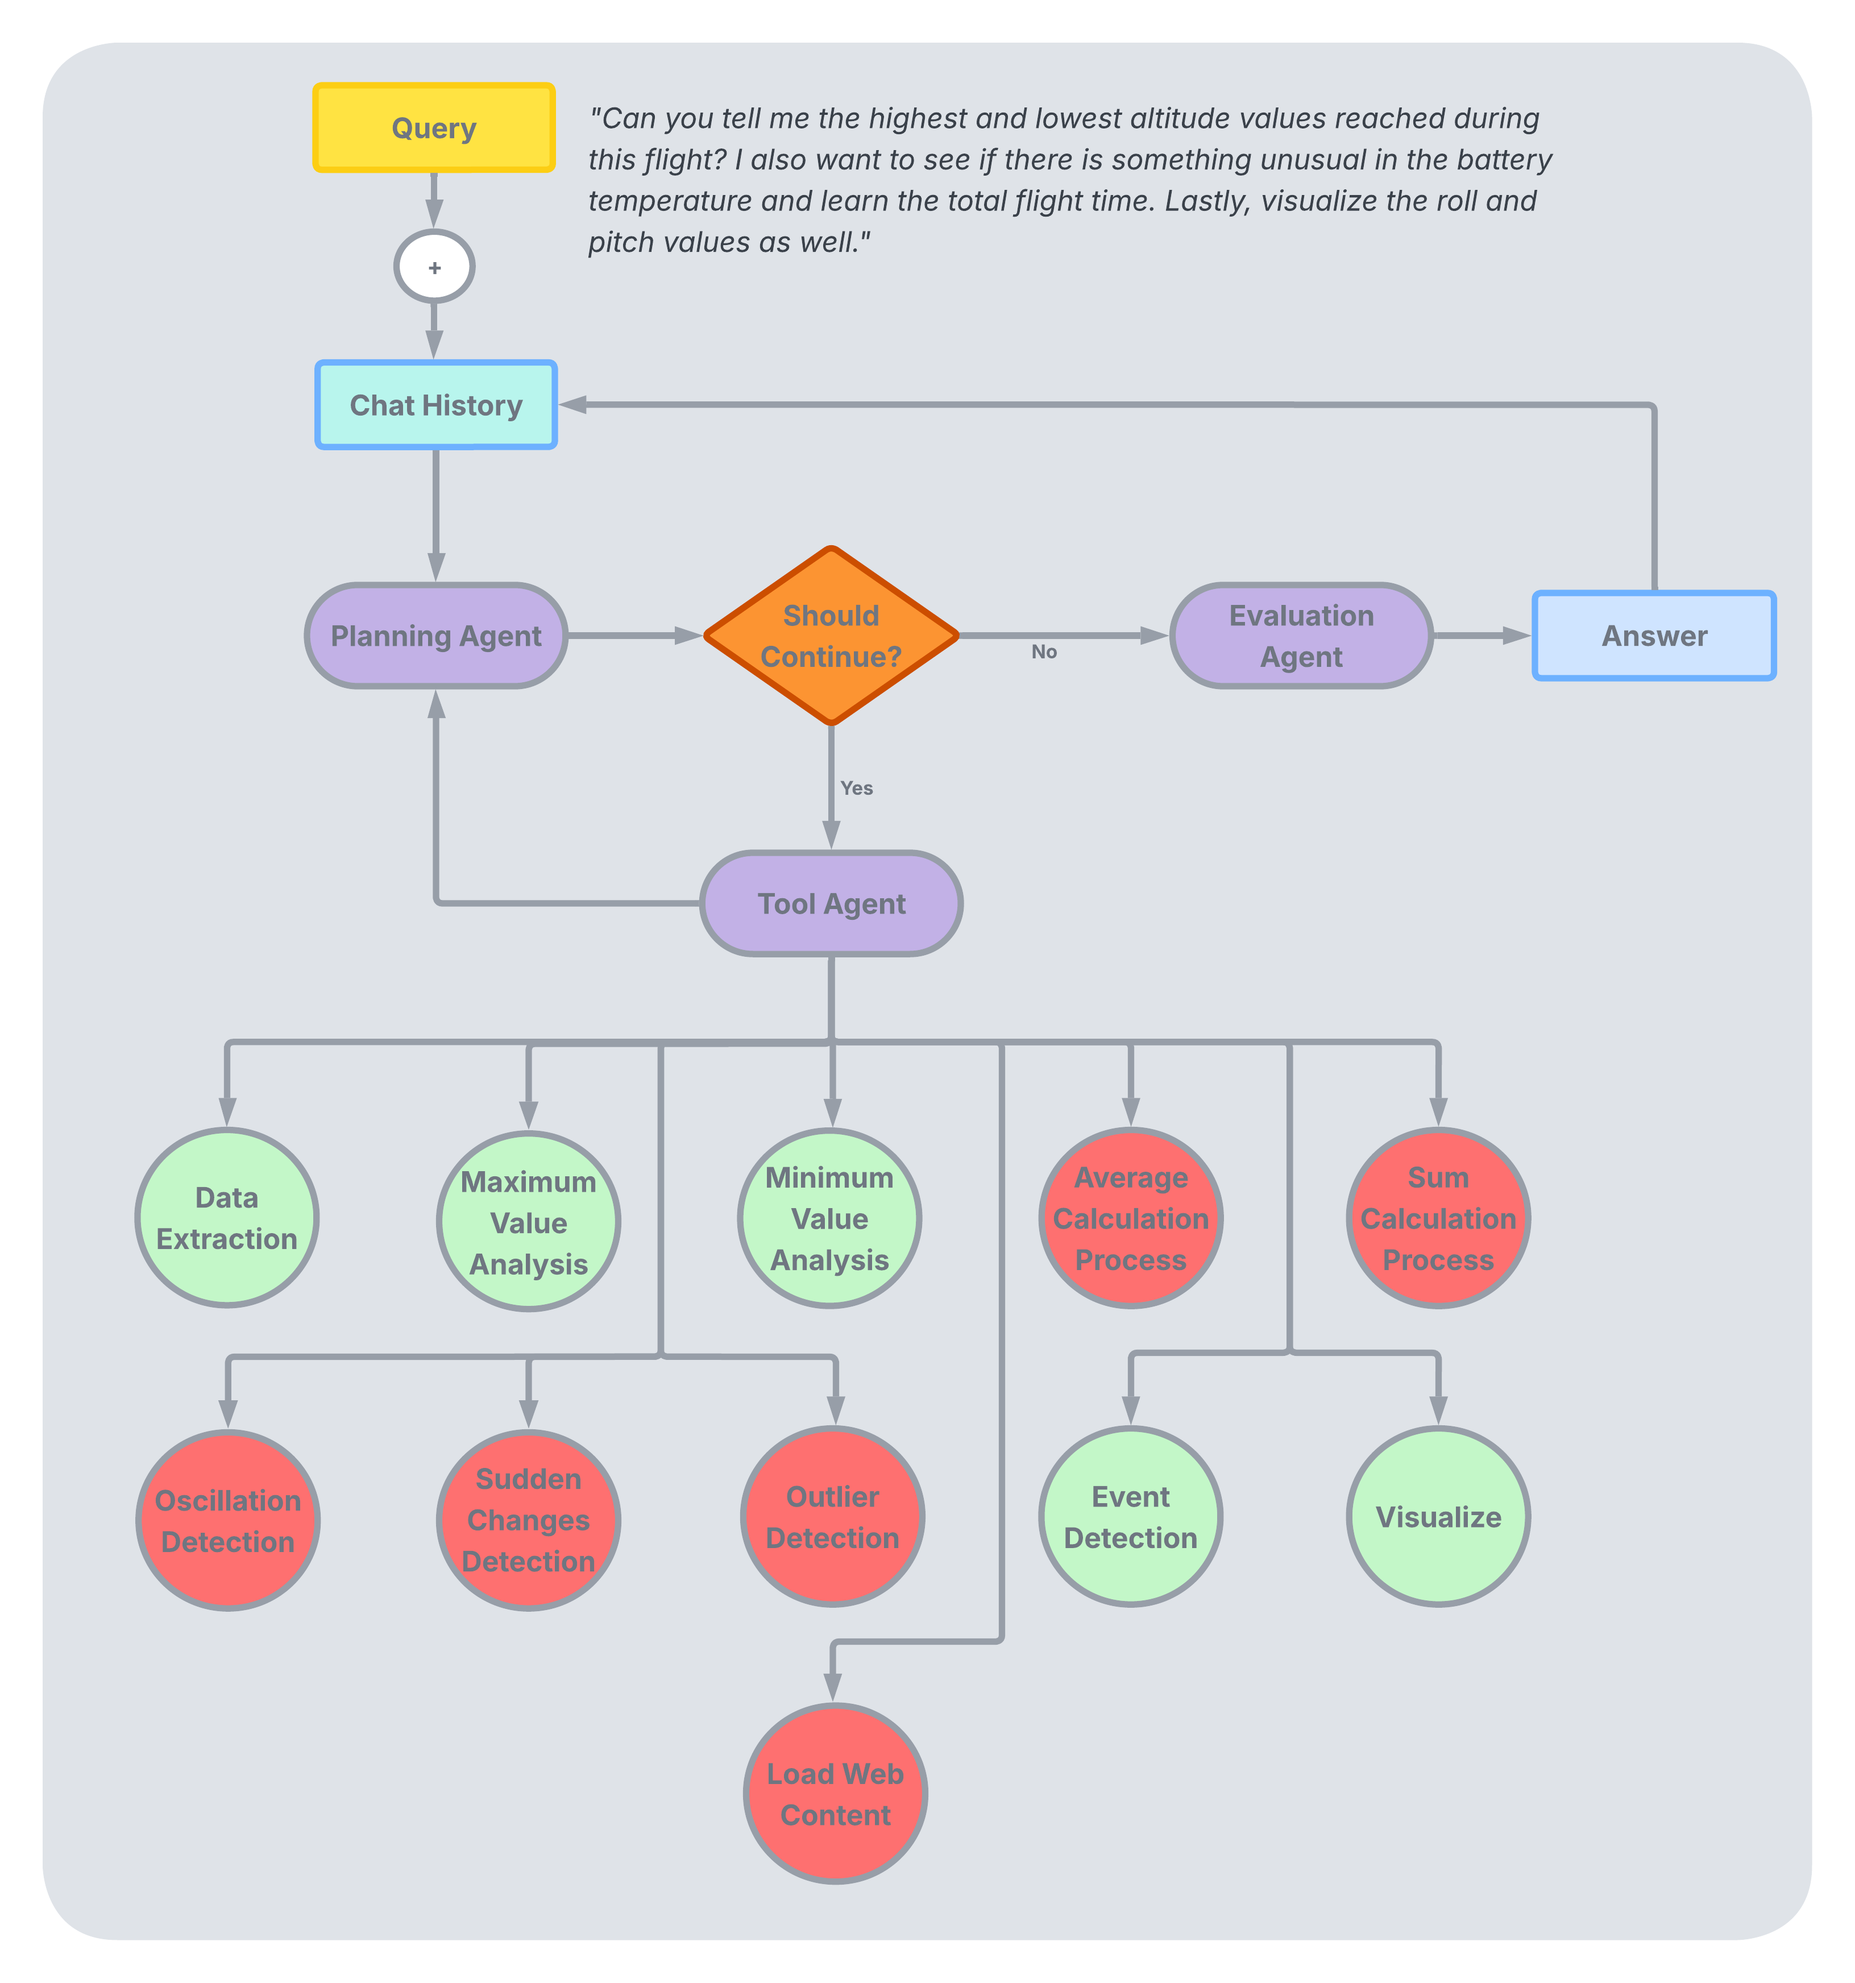
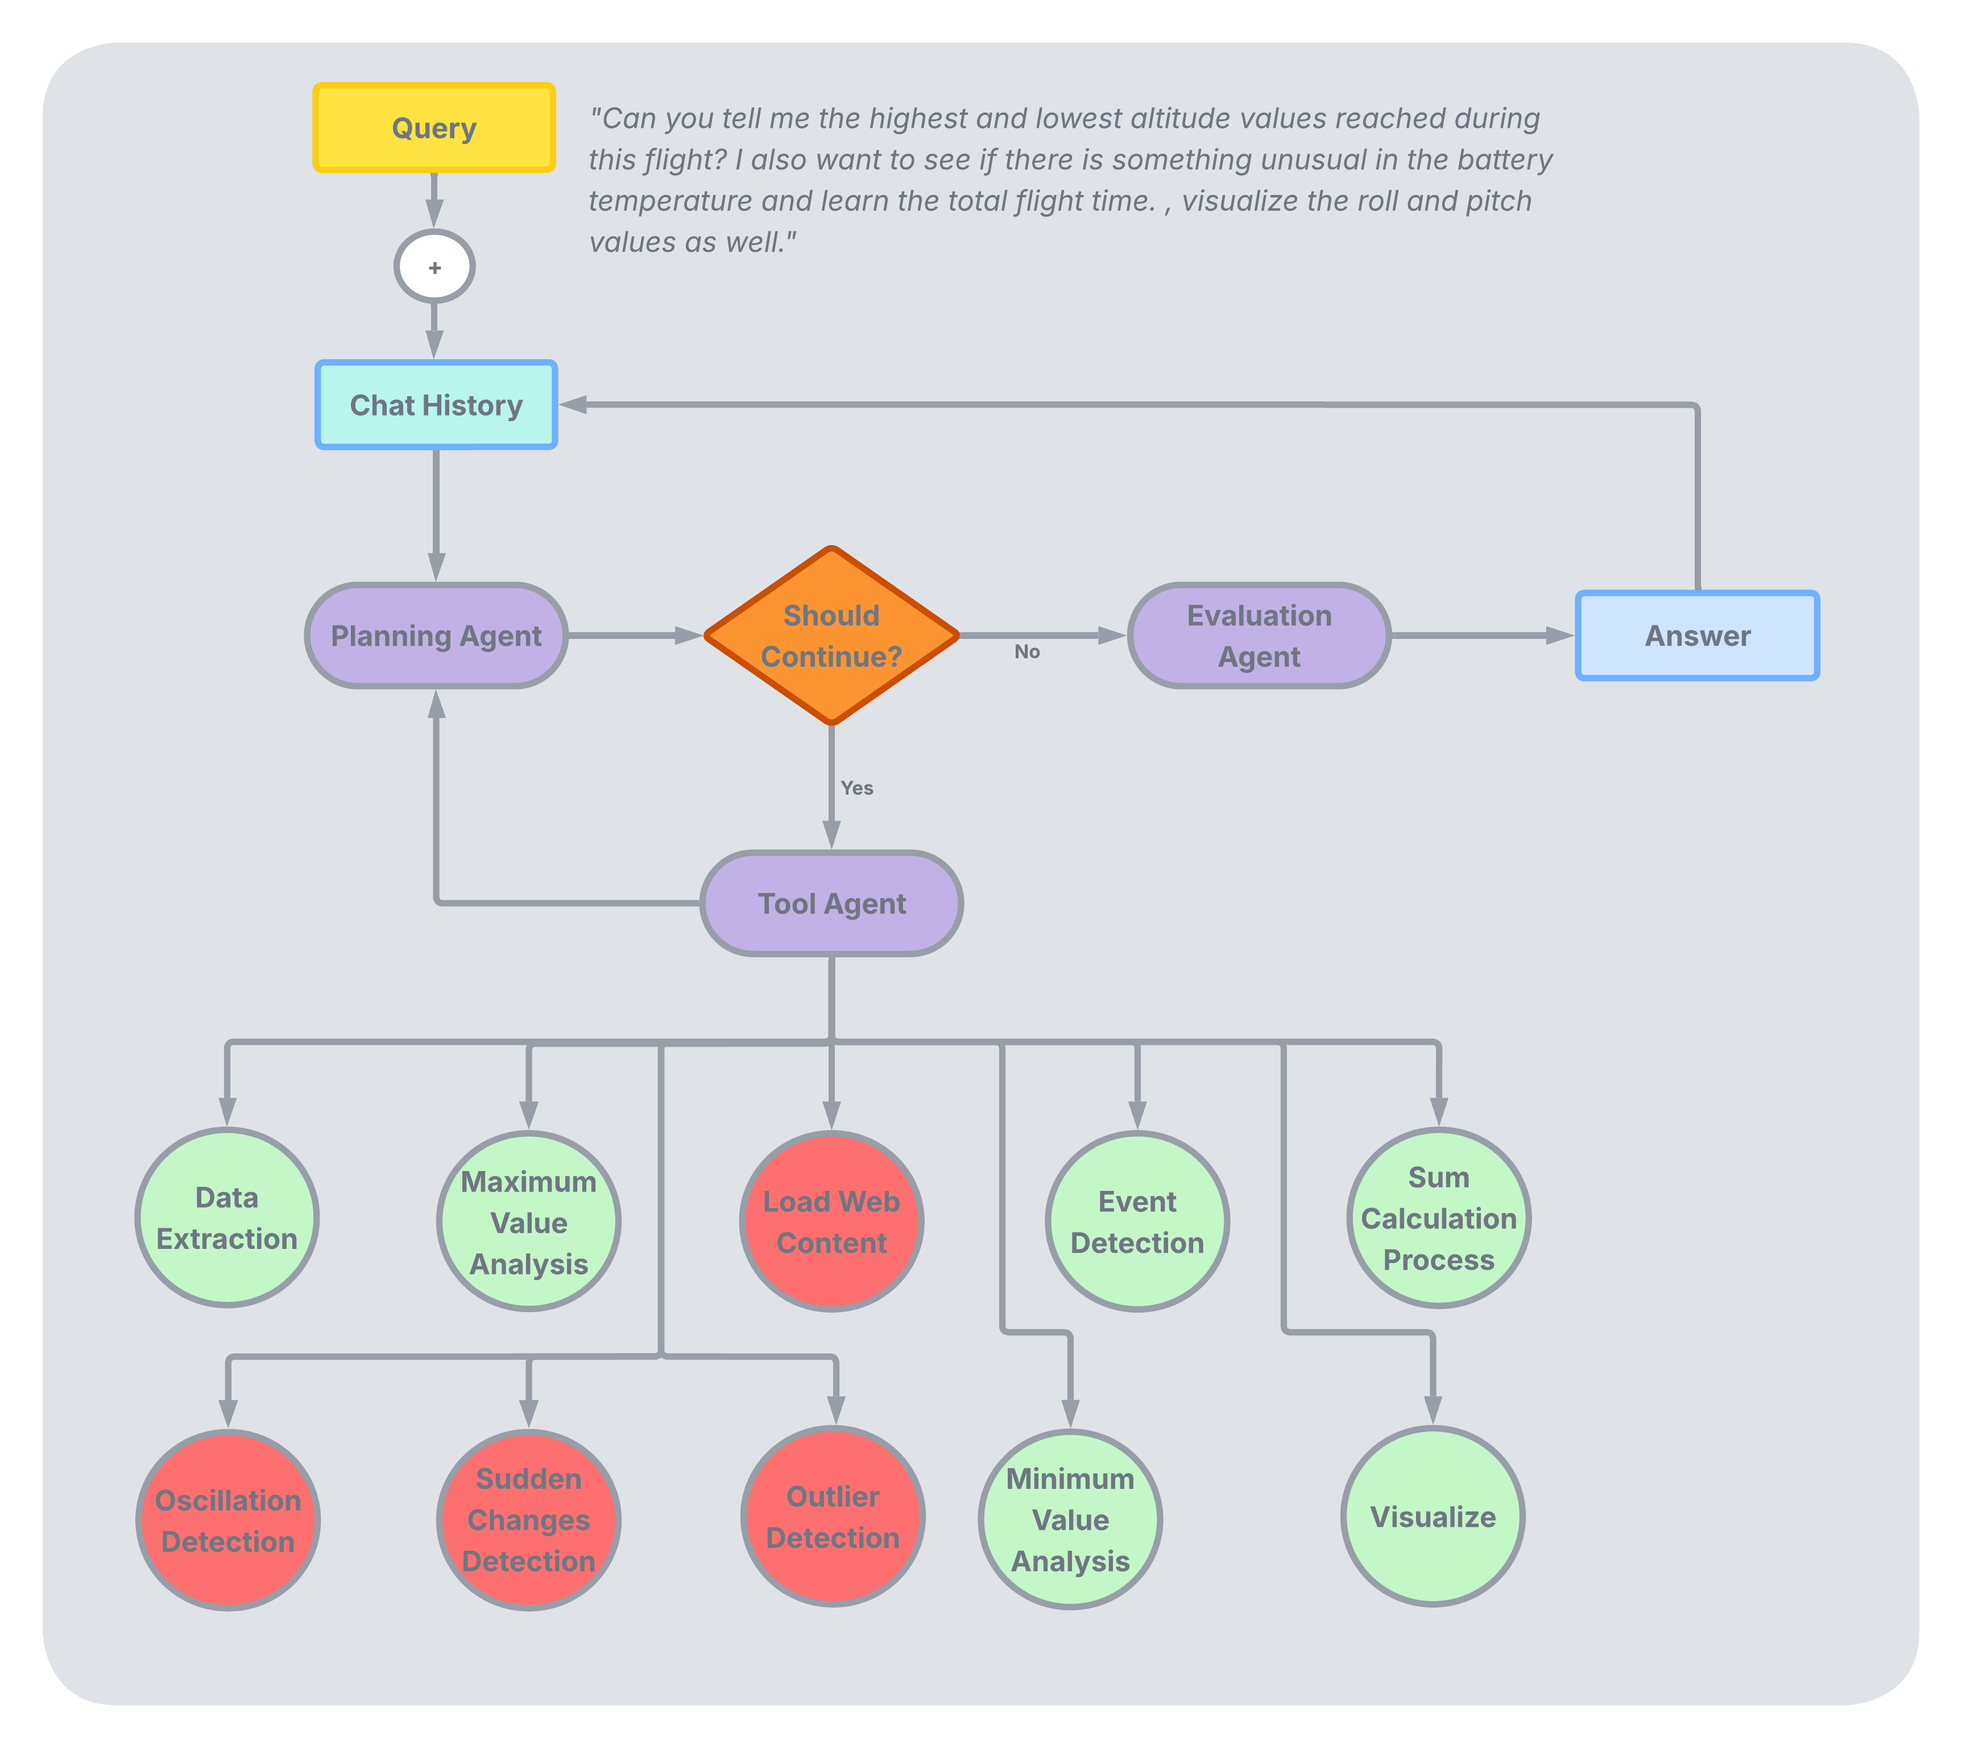
fix: file upload API and the flow charts are updated

Changed region(s): [[0.0619, 0.0312, 0.9595, 0.9678]]

diff --git a/src/components/SideBarFileManager.vue b/src/components/SideBarFileManager.vue
@@ -28,7 +28,6 @@
 import VProgress from './SideBarFileManagerProgressBar.vue'
 import Worker from '../tools/parsers/parser.worker.js'
 import { store } from './Globals'
-import { v4 as uuidv4 } from 'uuid'
 
 import { MAVLink20Processor as MAVLink } from '../libs/mavlink'
 
@@ -95,21 +94,20 @@ export default {
         // Added
         async sendFileToChatbot (file) {
             try {
-                const fileId = uuidv4()
                 const userId = 'admin'
                 const formData = new FormData()
                 formData.append('file', file)
                 const API_BASE_URL = process.env.VUE_APP_API_BASE_URL || 'http://localhost:8001'
                 console.log('Using API Base URL:', API_BASE_URL)
-                const response = await fetch(`${API_BASE_URL}/api/files/${fileId}`, {
+                const response = await fetch(`${API_BASE_URL}/api/files`, {
                     method: 'POST',
                     headers: { 'user-id': userId },
                     body: formData
                 })
                 if (response.ok) {
-                    console.log('File sent to chatbot successfully for user:', userId)
                     const responseData = await response.json()
-                    console.log('Response data:', responseData)
+                    console.log('File uploaded successfully:', responseData)
+                    // responseData.file_id is the server-generated ID
                 } else {
                     console.error('Failed to send file to chatbot. Status:', response.status)
                     console.error('Response text:', await response.text())

diff --git a/src/components/Sidebar.vue b/src/components/Sidebar.vue
@@ -577,14 +577,22 @@ a.centered-section {
     }
 
     .brand {
-        text-align: center;
+        display: flex;
+        align-items: center;
+        justify-content: space-between;
         font-size: 22px;
-        padding-left: 0px;
         line-height: 50px;
         margin-bottom: 0;
+        padding: 0 12px;
         color: rgb(54, 72, 114) !important;
         background-color: rgba(248, 248, 248, 0.918);
-        display: block;
+    }
+
+    .brand > a[href="/"] {
+        flex: 1;
+        text-align: center;
+        text-decoration: none;
+        color: rgb(54, 72, 114) !important;
     }
 
     .brand a {
@@ -592,11 +600,14 @@ a.centered-section {
         color: rgb(54, 72, 114) !important;
     }
 
+    .github {
+        display: flex;
+        align-items: center;
+    }
+
     .github img {
-        float: left;
         max-height: 30px;
-        margin-left: 8px;
-        margin-top: 10px;
+        margin: 0;
     }
 
     a:hover {

diff --git a/api/main.py b/api/main.py
@@ -11,6 +11,7 @@ import json
 from collections import defaultdict
 import math
 import logging
+import uuid
 from typing import List, Dict, Any, Optional
 import os
 from datetime import datetime
@@ -311,9 +312,10 @@ async def get_current_user(request: Request):
             error="Failed to get current user"
         )
 
-@app.post("/api/files/{file_id}", response_model=FileReceiveResponse, status_code=201, description="Upload a drone flight log file")
+@app.post("/api/files", response_model=FileReceiveResponse, status_code=201, description="Upload a drone flight log file")
 @limiter.limit("10/hour")
-async def receive_file(request: Request, file_id: str, file: UploadFile = File(...), user_id: str = Header(alias="user-id")):
+async def receive_file(request: Request, file: UploadFile = File(...), user_id: str = Header(alias="user-id")):
+    file_id = str(uuid.uuid4())
     logger.info(f"Receiving file upload: {file_id} for user: {user_id}")
     logger.info(f"File name: {file.filename}")
 
